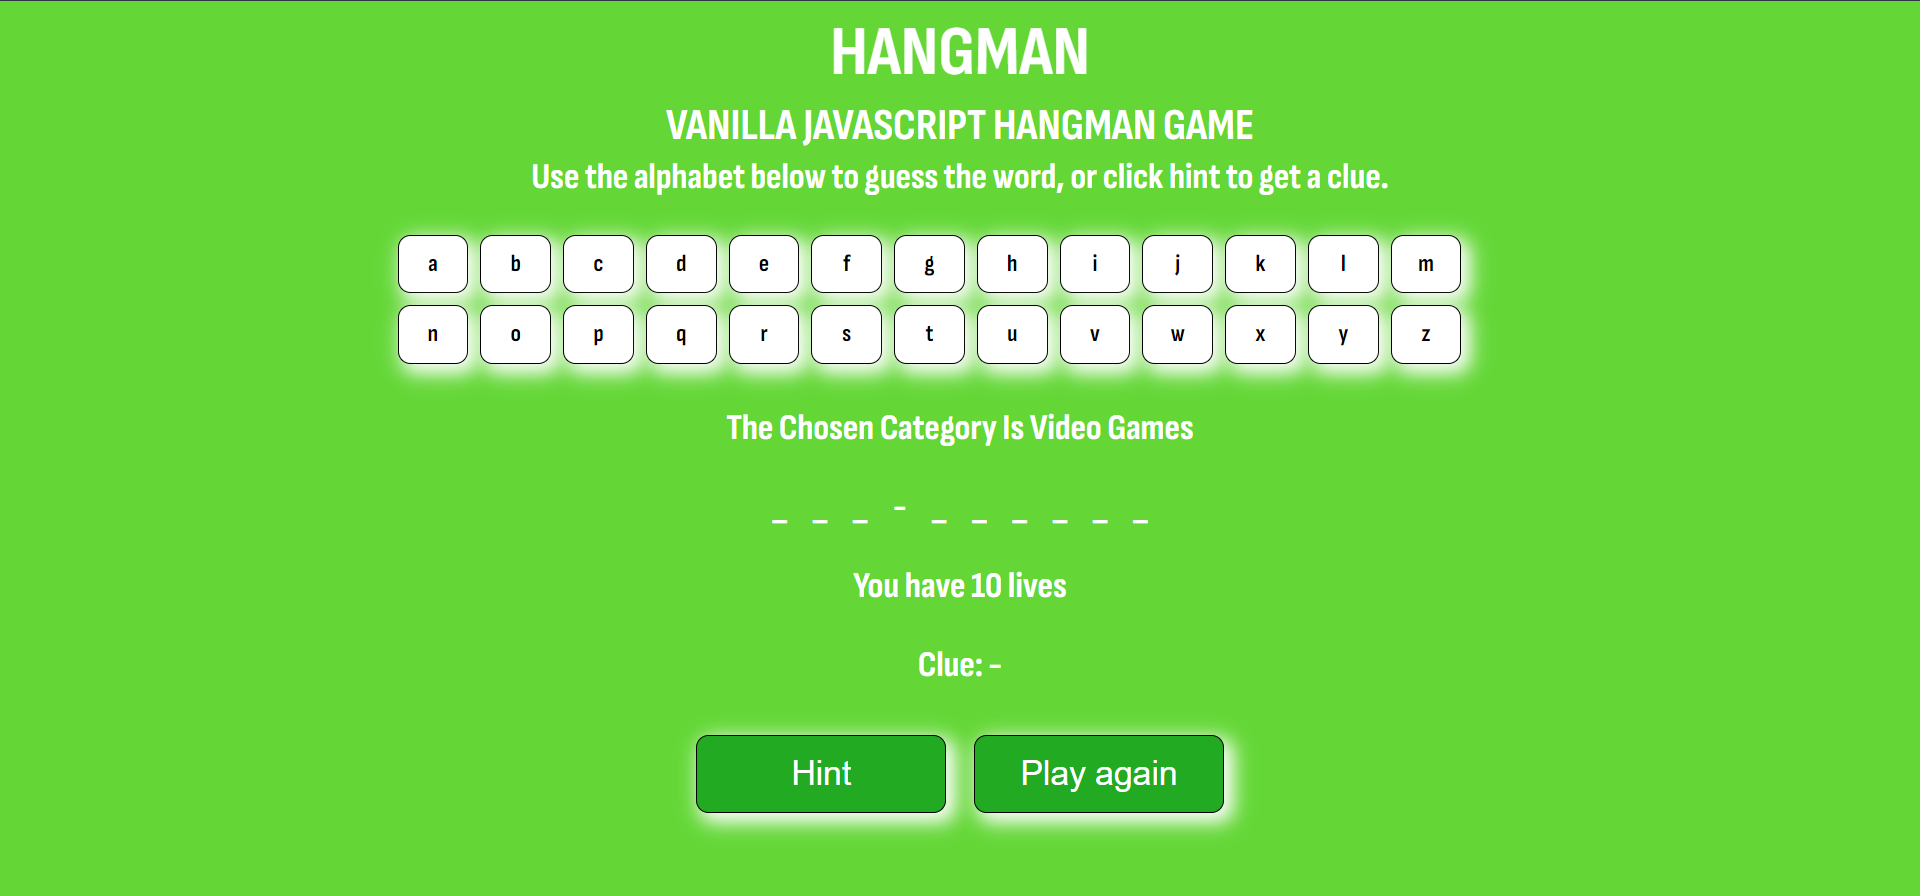
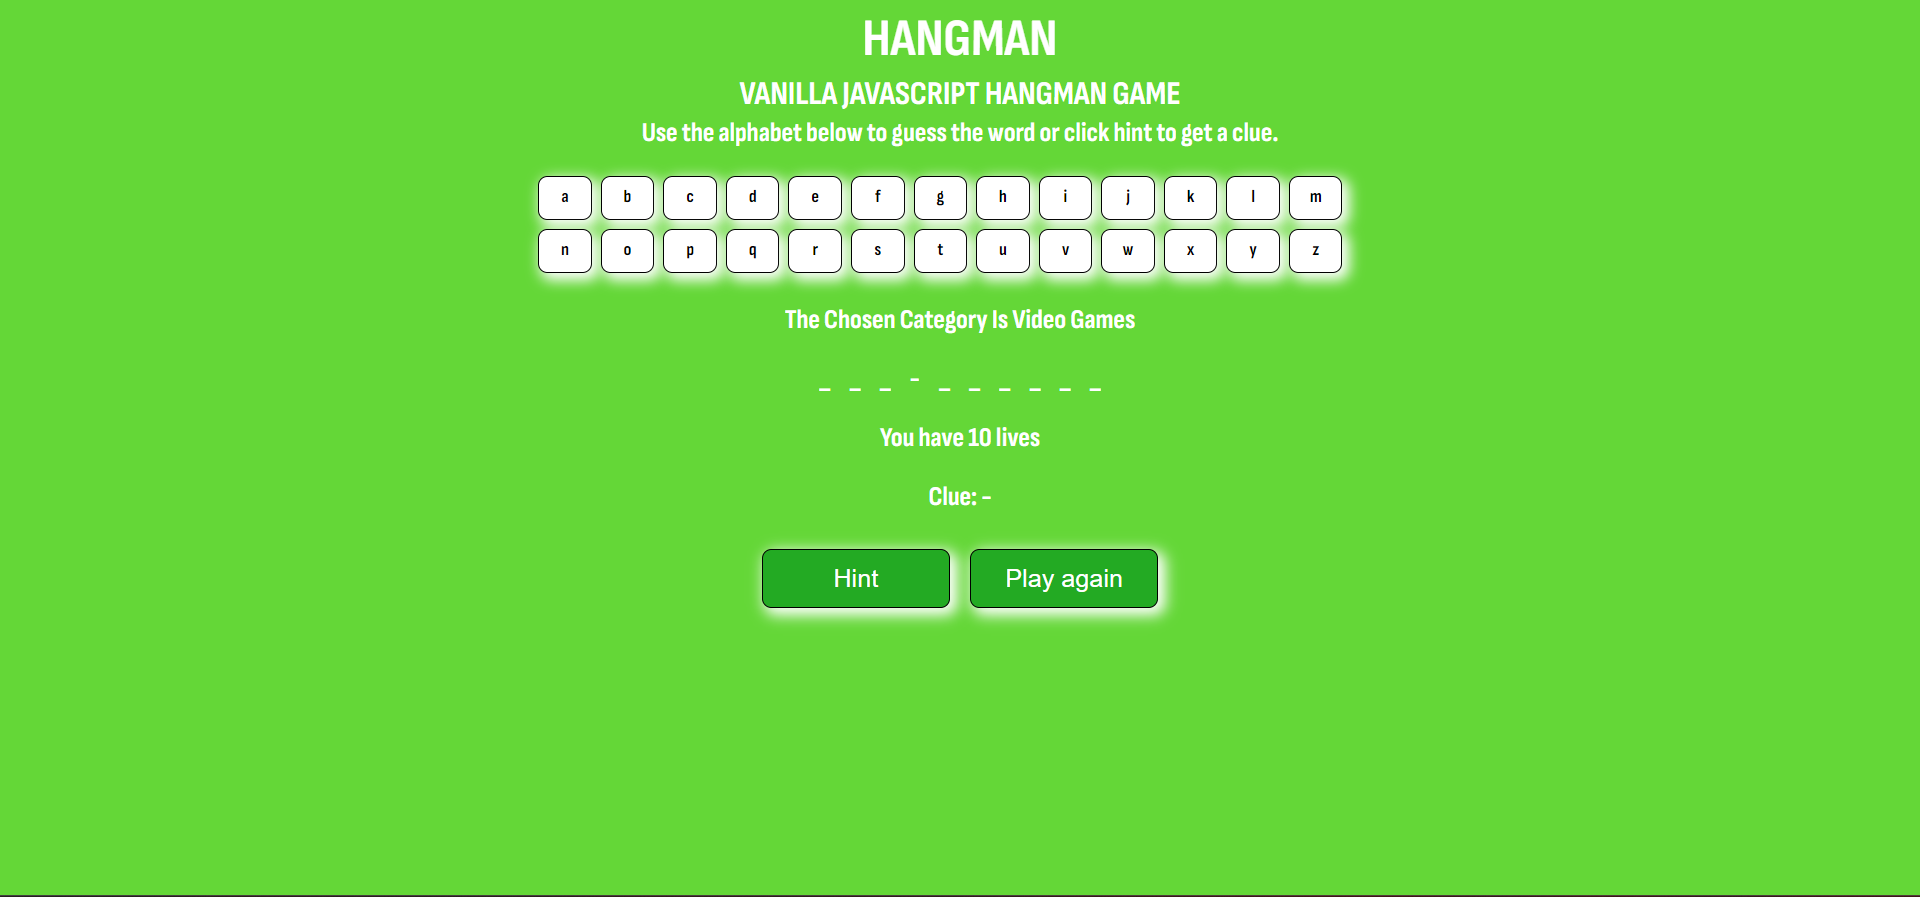
Hangman Game Version 1.0.0

diff --git a/Projects/Hangman/script.js b/Projects/Hangman/script.js
@@ -1,5 +1,10 @@
-window.onload = function () {
+/**
+ * Hangman
+ * Created by Nikola Ilievski
+ * Version: 1.0.0
+ */
 
+window.onload = function () {
     var alphabet = ['a', 'b', 'c', 'd', 'e', 'f', 'g', 'h', 'i', 'j', 'k', 'l', 'm', 'n', 'o', 'p', 'q', 'r', 's', 't', 'u', 'v', 'w', 'x', 'y', 'z'];
     var categories;
     var selectedCategory;
@@ -13,6 +18,9 @@ window.onload = function () {
     var showLives = document.getElementById("livesLeft");
     var showClue = document.getElementById("clue");
 
+    /**
+     * A function that selects the chosen category randomly
+     */
     var selectCategory = function () {
         if (selectedCategory === categories[0]) {
             categoryName.innerHTML = "<br><br><br><br>The Chosen Category Is Movies";
@@ -21,16 +29,21 @@ window.onload = function () {
         } else if (selectedCategory === categories[2]) {
             categoryName.innerHTML = "<br><br><br><br>The Chosen Category Is Animals";
         } else {
-            categoryName.innerHTML = "<br><br><br><br>The Chosen Category Does Not xist";
+            categoryName.innerHTML = "<br><br><br><br>The Chosen Category Does Not Exist";
         };
     };
 
+    /**
+     * A function that displays the number of lives left for the user
+     */
     var comments = function () {
         showLives.innerHTML = "You have " + lives + " lives";
+
         if (lives < 1) {
             showLives.innerHTML = "Death! (No more lives left)";
             alphabet.setAttribute("disabled", true);
         };
+
         for (var i = 0; i < geusses.length; i++) {
             if (counter + space === geusses.length) {
                 showLives.innerHTML = "Victory! (All letters guessed)";
@@ -38,6 +51,9 @@ window.onload = function () {
         };
     };
 
+    /**
+     * A function that creates a list of buttons from the alphabet array
+     */
     var buttons = function () {
         myButtons = document.getElementById('buttons');
         letters = document.createElement('ul');
@@ -54,6 +70,9 @@ window.onload = function () {
         };
     };
 
+    /**
+     * A function that creates a list of underscores or dashes based on the length of the word
+     */
     var result = function () {
         wordHolder = document.getElementById('wordHolder');
         correctGuess = document.createElement('ul');
@@ -75,18 +94,25 @@ window.onload = function () {
         };
     };
 
+    /**
+     * A function that sets the clicked letter to have an innerHTML of '/' and
+     * makes it so it cant be clicked again and checks if the guessed letter is in the word and
+     * if it is it adds it to the list of guessed letters
+     */
     var check = function () {
         list.onclick = function () {
             var geuss = (this.innerHTML);
             this.setAttribute("class", "active");
             this.innerHTML = '/';
             this.onclick = null;
+
             for (var i = 0; i < word.length; i++) {
                 if (word[i] === geuss) {
                     geusses[i].innerHTML = geuss;
                     counter += 1;
                 };
             };
+            
             var j = (word.indexOf(geuss));
             if (j === -1) {
                 lives -= 1;
@@ -97,10 +123,14 @@ window.onload = function () {
         };
     };
 
+    /**
+     * A function that creates three arrays of strings, each containing different categories of words
+     */
     var play = function () {
         categories = [["ted", "finding-nemo", "jaws", "veronica", "spirited-away", "titanic", "jurassic-park", "the-exorcist", "taken"],
         ["minecraft", "outlast", "watch-dogs", "bloodborne", "the-forest", "portal", "hangman", "super-mario", "minesweeper", "nosgoth"],
         ["tiger", "monkey", "blue-whale", "shark", "anaconda", "chameleon", "ant", "camel", "armadillo", "lion",]];
+
         selectedCategory = categories[Math.floor(Math.random() * categories.length)];
         word = selectedCategory[Math.floor(Math.random() * selectedCategory.length)];
         word = word.replace(/\s+/g, "-");
@@ -115,6 +145,9 @@ window.onload = function () {
     };
     play();
 
+    /**
+     * A function to display a hint in the game
+     */
     hint.onclick = function () {
         hints = [["Talking teddy bear.", "Dad fish finding his son.", "Giant great white shark.", "Horror based on a real story.", "Animated movie about the spirit world.",
             "Based on accounts of a sinking ship.", "Dinosaur theme park.", "Teenage girl is possessed by a mysterious entity.", "Father trying to save his daughter."],
@@ -124,11 +157,15 @@ window.onload = function () {
         ["Has white and orange stripes.", "Closely related to humans.", "Biggest animal on the planet.", "Predator of the Sea.", "Very large snake.",
             "Can change color.", "Can carry up to twenty times their own body weight.", "Can survive for long periods of time without food or water.",
             "Has natural armor protecting them.", "Also known as king of the forest."]];
+            
         var catagoryIndex = categories.indexOf(selectedCategory);
         var hintIndex = selectedCategory.indexOf(word);
         showClue.innerHTML = "Clue: - " + hints[catagoryIndex][hintIndex];
     };
 
+    /**
+     * A function that resets the game
+     */
     document.getElementById('reset').onclick = function () {
         correctGuess.parentNode.removeChild(correctGuess);
         letters.parentNode.removeChild(letters);

diff --git a/Projects/Hangman/style.css b/Projects/Hangman/style.css
@@ -1,8 +1,17 @@
 @import url('https://fonts.googleapis.com/css2?family=Sofia+Sans+Condensed:wght@700&display=swap');
 
+:root {
+    --primary-black: rgb(0, 0, 0);
+    --primary-white: rgb(255, 255, 255);
+    --primary-lime: rgb(100, 215, 55);
+    --primary-gray: rgb(230, 230, 230);
+    --primary-green: rgb(35, 170, 35);
+    --secondary-green: rgb(15, 120, 15);
+}
+
 body {
-    background: rgb(100, 215, 55);
-    color: rgb(255, 255, 255);
+    background-color: var(--primary-lime);
+    color: var(--primary-white);
     font-family: 'Sofia Sans Condensed', sans-serif;
     text-align: center;
     font-size: 1.2rem;
@@ -12,9 +21,6 @@ h1,
 h2 {
     text-transform: uppercase;
     margin: 0.2rem 0;
-}
-
-h1 {
     font-size: 3.5rem;
 }
 
@@ -32,34 +38,48 @@ p {
     font-size: 1.5em;
 }
 
-.active {
-    color: transparent;
-    content: '/';
-}
-
 #alphabet {
     margin: 10px auto;
     padding: 0;
     max-width: 900px;
 }
 
-#alphabet li {
-    box-shadow: 5px 5px 15px 3px rgb(255, 255, 255);
-    background: rgb(255, 255, 255);
-    color: rgb(0, 0, 0);
-    border: solid 1px rgb(0, 0, 0);
+#alphabet li,
+button {
+    box-shadow: 5px 5px 15px 3px var(--primary-white);
+    border: solid 2px var(--primary-black);
     cursor: pointer;
+    border-radius: 10px;
+}
+
+#alphabet li {
+    background-color: var(--primary-white);
+    color: var(--primary-black);
     list-style: none;
     float: left;
     margin: 0 0.6rem 0.6rem 0;
     padding-top: 10px;
     width: 55px;
     height: 35px;
-    border-radius: 10px;
 }
 
 #alphabet li:hover {
-    background: rgb(230, 230, 230);
+    background-color: var(--primary-gray);
+}
+
+button {
+    background-color: var(--primary-green);
+    color: var(--primary-white);
+    text-decoration: none;
+    outline: none;
+    font-size: 1.4em;
+    margin: 0.6rem;
+    padding: 15px;
+    width: 200px;
+}
+
+button:hover {
+    background-color: var(--secondary-green);
 }
 
 #my-word {
@@ -83,21 +103,20 @@ p {
     font-size: 1.5em;
 }
 
-button {
-    box-shadow: 5px 5px 15px 3px rgb(255, 255, 255);
-    background: rgb(35, 170, 35);
-    color: rgb(255, 255, 255);
-    border: solid 1px rgb(0, 0, 0);
-    text-decoration: none;
-    cursor: pointer;
-    outline: none;
-    font-size: 1.4em;
-    border-radius: 10px;
-    padding: 15px;
-    width: 200px;
-    margin: 0.6rem;
-}
+@media only screen and (max-width: 998px) {
+    #alphabet {
+        margin: 0;
+    }
 
-button:hover {
-    background: rgb(15, 120, 15);
+    #alphabet li {
+        width: 35px;
+        height: 20px;
+        margin: 5px;
+        padding: 10px 0;
+    }
+
+    #categoryName::before {
+        content: "\a\a\a";
+        white-space: pre;
+    }
 }

diff --git a/index.html b/index.html
@@ -31,11 +31,12 @@
             <!-- HANGMAN GAME -->
             <div class="cardStyle">
                 <h1>Hangman</h1>
-                <!-- <h2>Version:</h2> -->
+                <h2>Version: 1.0.0</h2>
                 <hr>
-                <p>A simple hangman game using javascript</p>
+                <p>This is a simple hangman game made only using JavaScript.</p>
                 <ul>
-                    <li>Very fun game! :)</li>
+                    <li>Fun and easy to understand game.</li>
+                    <li>The game is mobile compatible.</li>
                 </ul>
                 <div id="hangmanBackgroundImage" class="anchoredBackgroundImage">
                     <div class="anchoredBackgroundImageCurtain"></div>

diff --git a/Projects/Hangman/index.html b/Projects/Hangman/index.html
@@ -5,15 +5,15 @@
     <meta charset="UTF-8">
     <meta http-equiv="X-UA-Compatible" content="IE=edge">
     <meta name="viewport" content="width=device-width, initial-scale=1.0">
-    <link rel="stylesheet" href="./style.css">
     <title>Hangman</title>
+    <link rel="stylesheet" href="./style.css">
 </head>
 
 <body>
     <div>
         <h1>Hangman</h1>
         <h2>Vanilla JavaScript Hangman Game</h2>
-        <h3>Use the alphabet below to guess the word, or click hint to get a clue.</h3>
+        <h3>Use the alphabet below to guess the word or click hint to get a clue.</h3>
     </div>
 
     <div>
